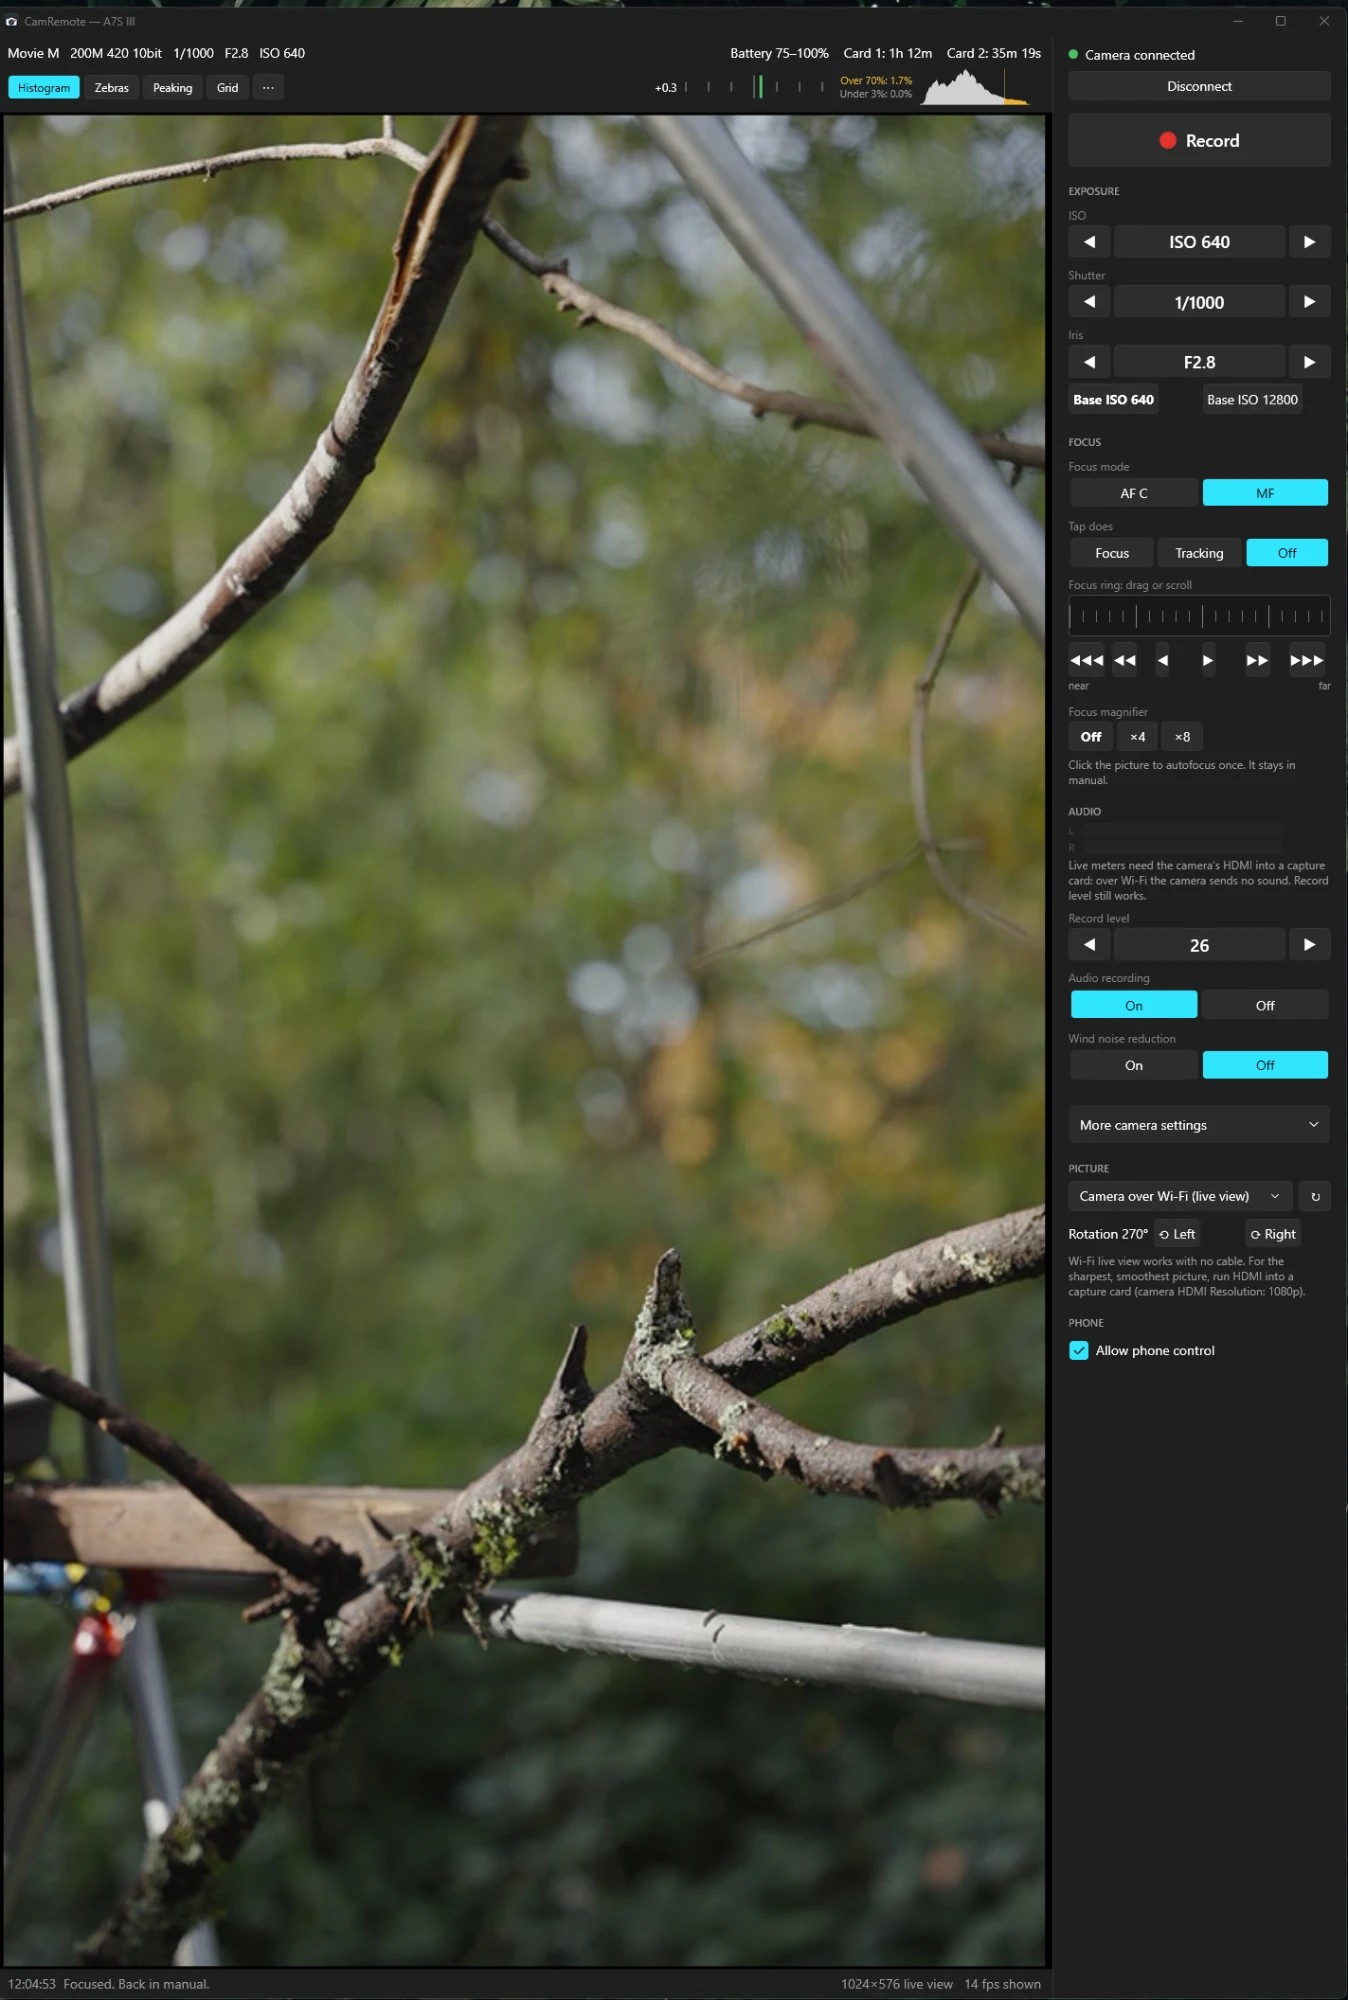
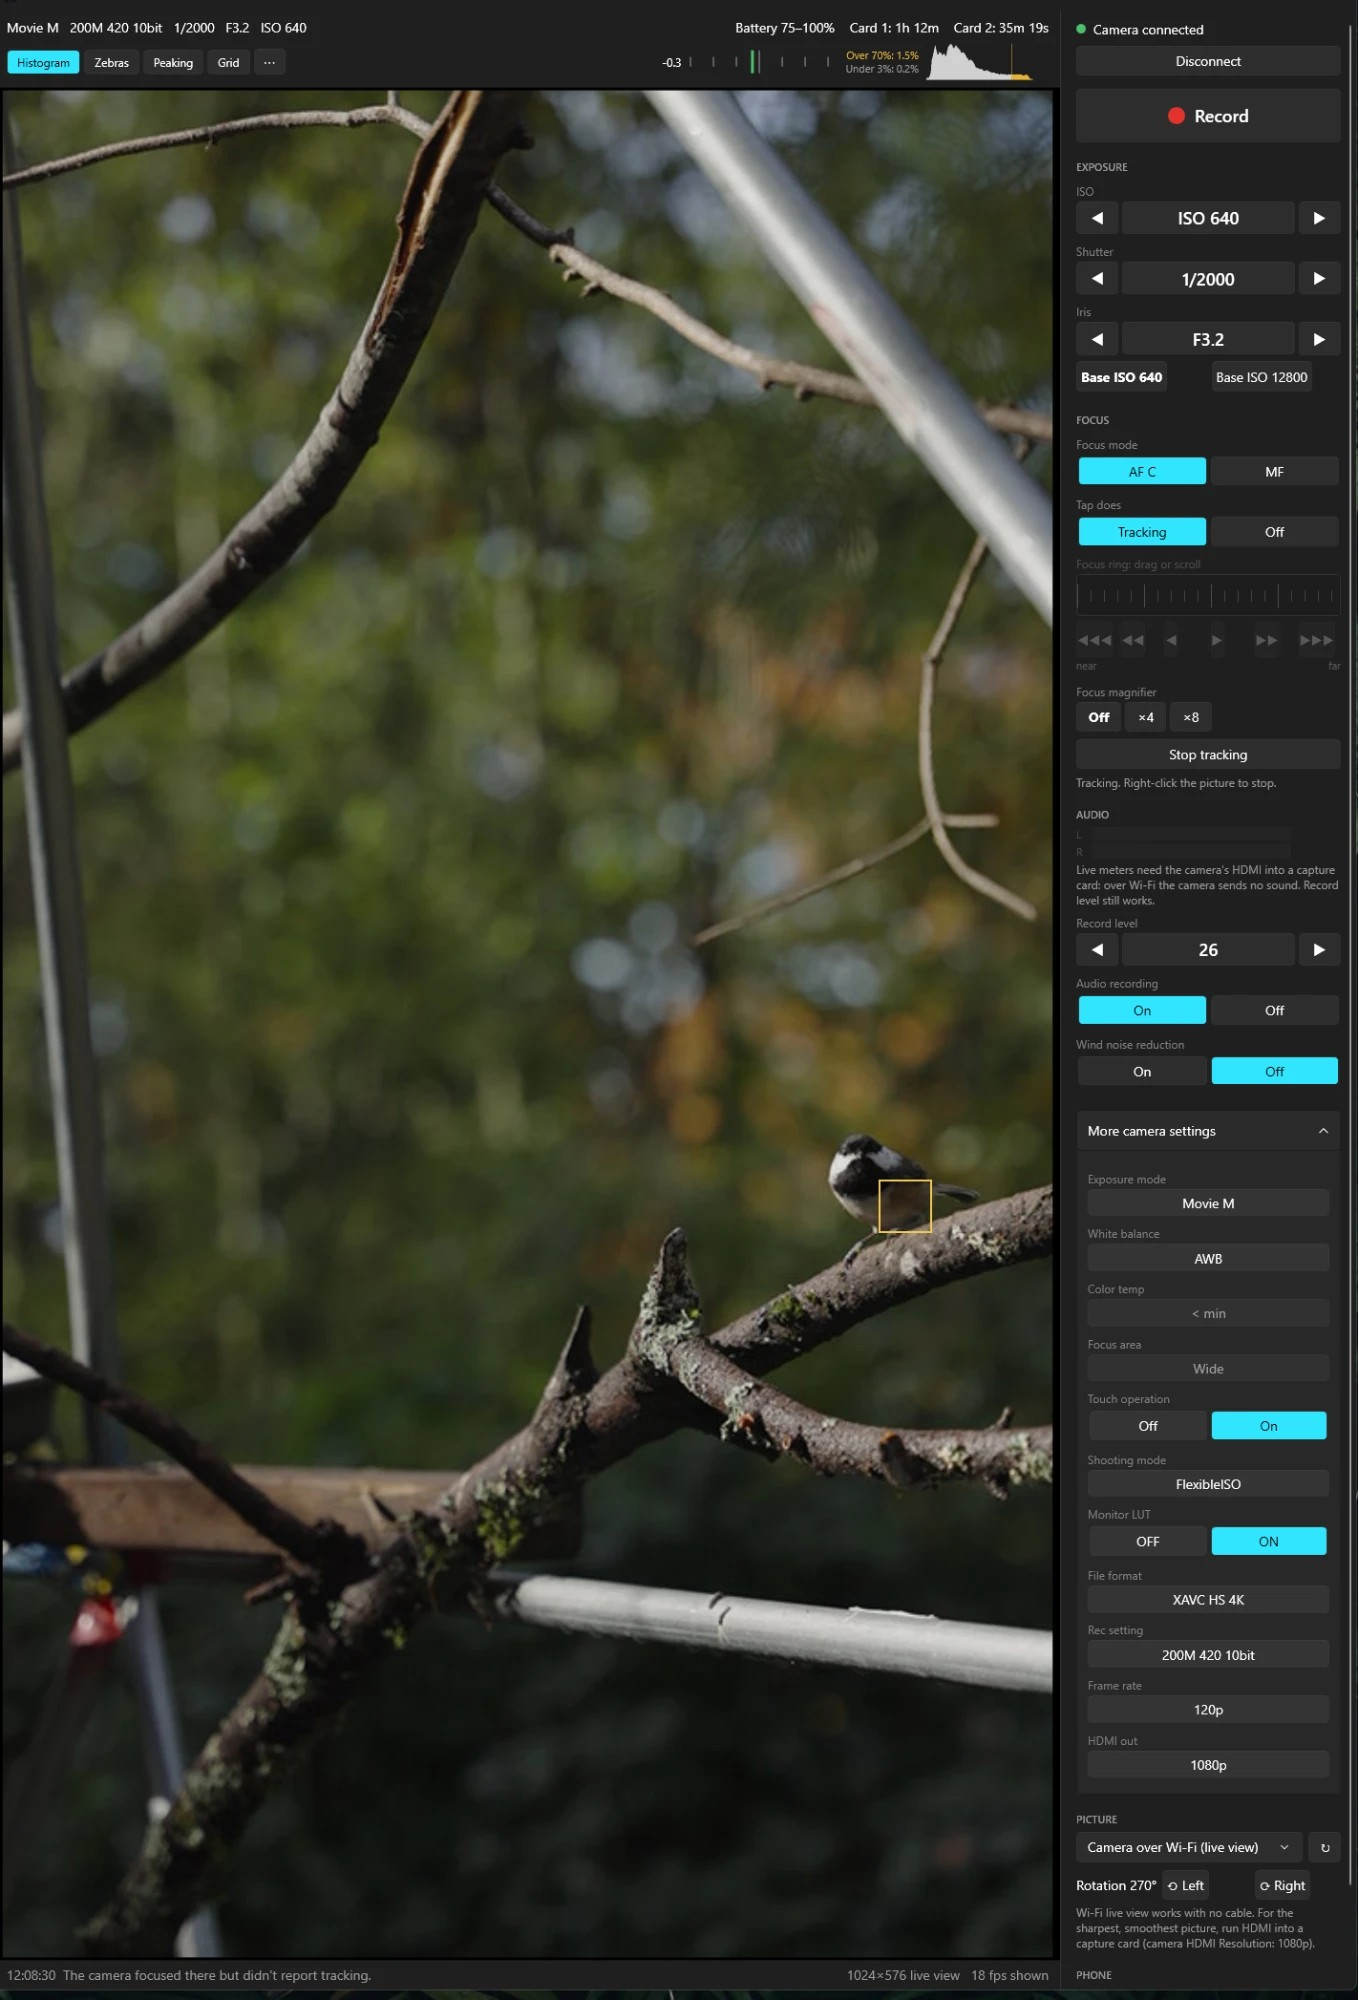
Use the bird shot as the README hero

diff --git a/README.md b/README.md
@@ -17,7 +17,7 @@ See the live picture, focus, set exposure and hit record, with no cables and fro
 
 <br><br>
 
-<img src="docs/hero.jpg" alt="CamRemote showing a sharp live view of a branch, with camera controls alongside" width="560" />
+<img src="docs/hero.jpg" alt="CamRemote showing a live view of a small bird on a branch, with camera controls alongside" width="560" />
 
 </div>
 
